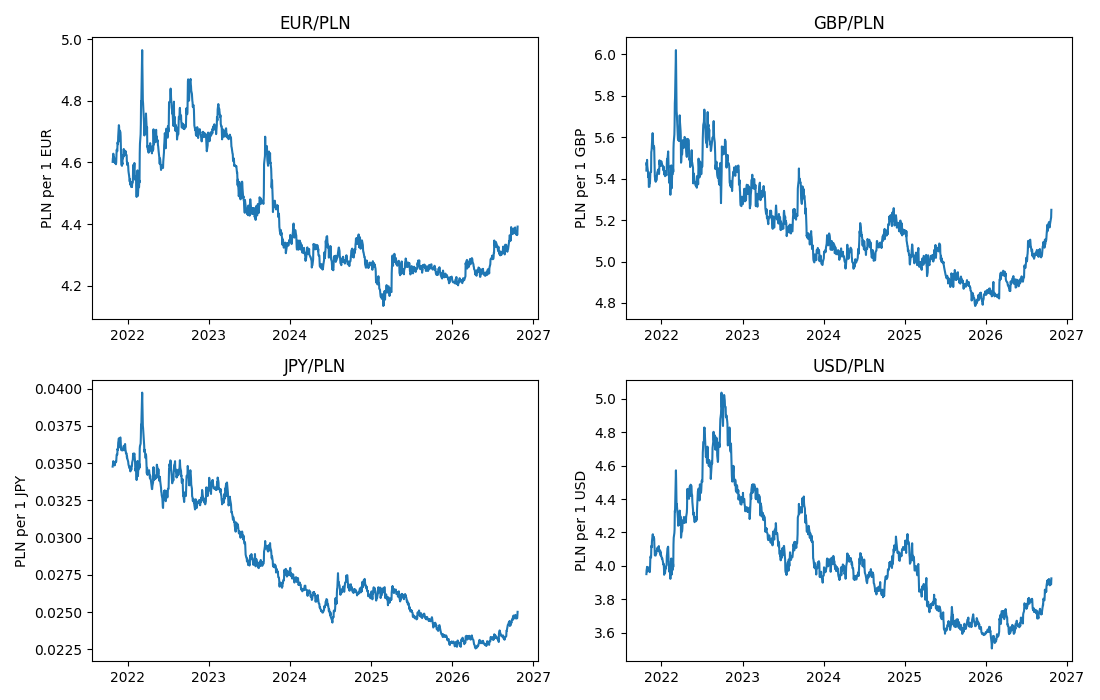
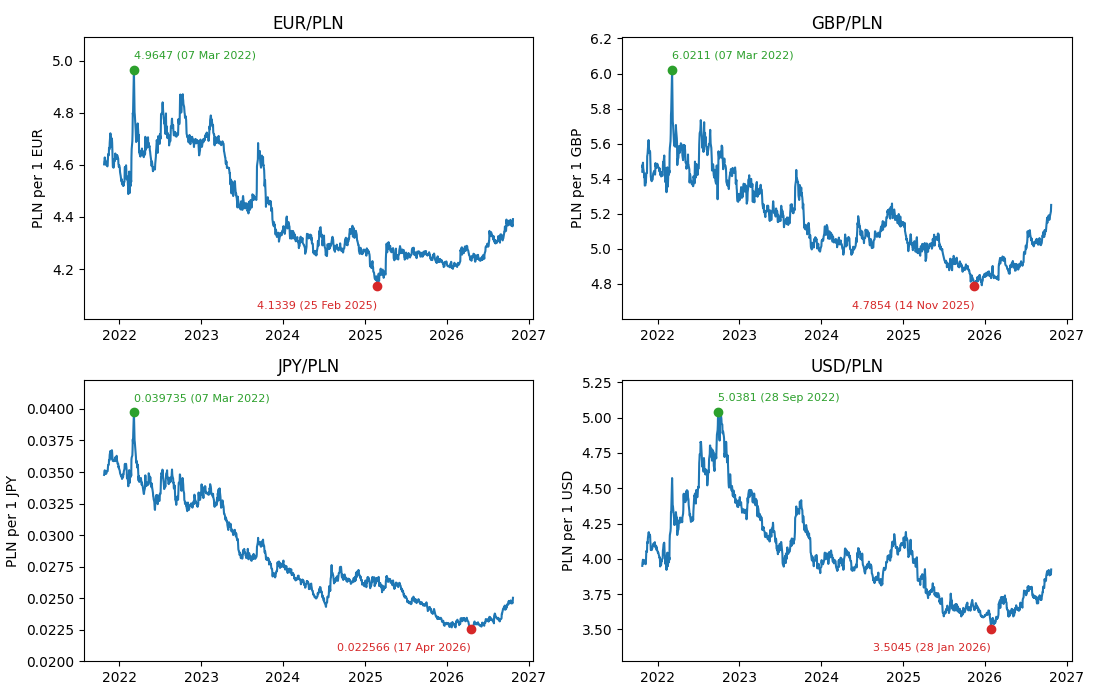
Mark lowest and highest rates on the level charts

diff --git a/pln_rates/plots.py b/pln_rates/plots.py
@@ -1,12 +1,29 @@
+import matplotlib
+
+matplotlib.use("Agg")  # only saves files, so no window (and no Tk) is needed
 import matplotlib.pyplot as plt
+import pandas as pd
 
 
-def plot_levels(df, path):
+def mark_extremes(ax, answers, code):
+    # a dot and a label on the lowest and highest rate, the points the brief asks about
+    for question, colour, offset in [("lowest", "tab:red", -16), ("highest", "tab:green", 8)]:
+        row = answers[(answers["currency"] == code) & (answers["question"] == question)].iloc[0]
+        when = pd.Timestamp(row["date"])
+        ax.margins(y=0.15)  # room so the labels do not hit the title or axis
+        ax.scatter([when], [row["rate"]], color=colour, zorder=3)
+        ax.annotate(f"{row['rate']} ({when:%d %b %Y})", (when, row["rate"]), xytext=(0, offset),
+                    textcoords="offset points", ha="left" if when < pd.Timestamp("2024-06-01") else "right", fontsize=8, color=colour)
+
+
+def plot_levels(df, path, answers=None):
     codes = sorted(df["currency"].unique())
     fig, axes = plt.subplots(2, 2, figsize=(11, 7))
     for ax, code in zip(axes.flat, codes):
         part = df[df["currency"] == code]
         ax.plot(part["date"], part["rate"])
+        if answers is not None:
+            mark_extremes(ax, answers, code)
         ax.set_title(f"{code}/PLN")
         ax.set_ylabel(f"PLN per 1 {code}")
     fig.tight_layout()

diff --git a/tests/test_plots.py b/tests/test_plots.py
@@ -1,5 +1,6 @@
 import pandas as pd
 
+from pln_rates.analysis import answers
 from pln_rates.plots import plot_indexed, plot_levels
 
 
@@ -16,3 +17,15 @@ def test_plots_create_files(tmp_path):
 
     assert (tmp_path / "levels.png").exists()
     assert (tmp_path / "indexed.png").exists()
+
+def test_levels_with_markers_for_lowest_and_highest(tmp_path):
+    rows = []
+    for code in ["EUR", "GBP", "JPY", "USD"]:
+        for i, rate in enumerate([4.0, 4.5, 4.2]):
+            rows.append((f"2026-01-0{i + 1}", code, rate))
+    df = pd.DataFrame(rows, columns=["date", "currency", "rate"])
+    df["date"] = pd.to_datetime(df["date"])
+
+    plot_levels(df, tmp_path / "levels.png", answers(df))
+
+    assert (tmp_path / "levels.png").exists()

diff --git a/pln_rates/main.py b/pln_rates/main.py
@@ -37,7 +37,7 @@ def main():
     result.to_csv(ROOT / "outputs" / "answers.csv", index=False)
     print(result.to_string())
 
-    plot_levels(df, ROOT / "outputs" / "levels.png")
+    plot_levels(df, ROOT / "outputs" / "levels.png", result)
     plot_indexed(df, ROOT / "outputs" / "indexed.png")
 
 
